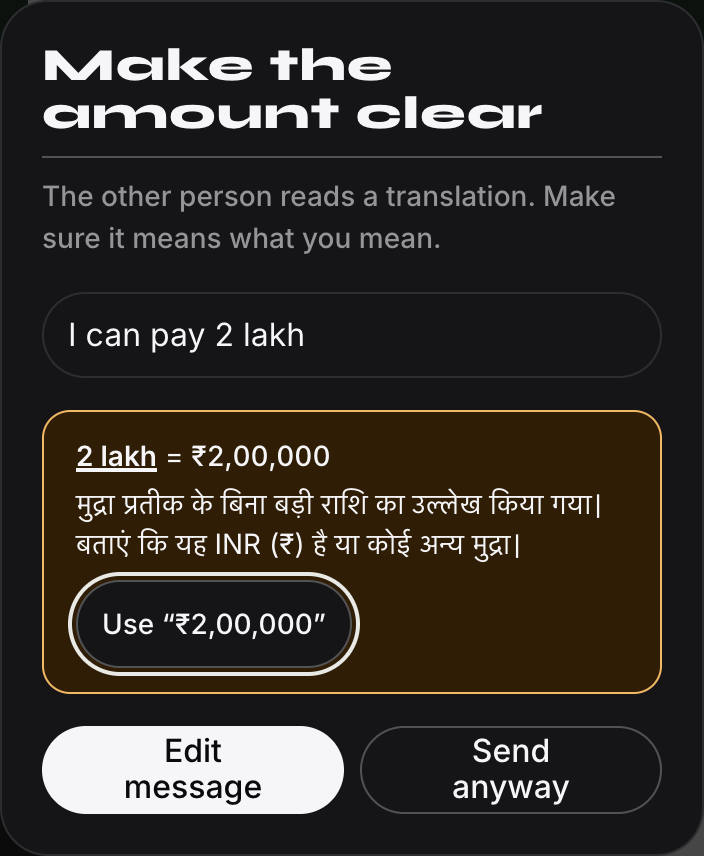
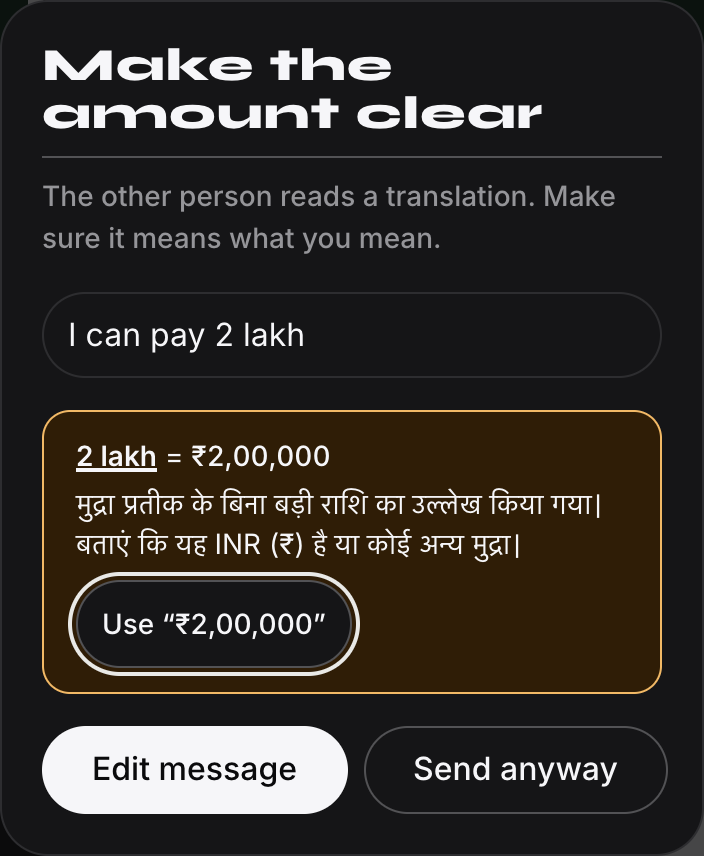
fix(DHRUMIL-T12): finish-review fixes on the landing and case page
Seal panel shows the sealed Deal Card with its QR; agent panel crops to the
transcript and summary (no nested header, no empty chat); hero headline
keeps 'languages.' together; hero screens full width on phones; guard
capture retaken with one-line buttons; closing panel centred; case toggle
fits at 390 and long summary facts wrap.

diff --git a/apps/web/src/app/page.tsx b/apps/web/src/app/page.tsx
@@ -38,8 +38,8 @@ export default function Home() {
 
         <div className="grid flex-1 grid-cols-[minmax(0,1fr)] items-center gap-10 px-5 pb-8 sm:px-8 lg:grid-cols-[minmax(0,1.1fr)_minmax(0,1fr)] lg:gap-12 lg:px-14">
           <div className="flex flex-col gap-6">
-            <h1 className="max-w-none font-display text-[clamp(1.75rem,3.7vw,3.25rem)] uppercase leading-[1.05] tracking-[0.02em]">
-              Same deal, in both languages.
+            <h1 className="max-w-none font-display text-[clamp(1.5rem,3.7vw,3.25rem)] uppercase leading-[1.05] tracking-[0.02em]">
+              Same deal, in both <span className="whitespace-nowrap">languages.</span>
             </h1>
             <p className="max-w-[40ch] text-lg text-ink-2">Marketplace chat that translates every message and spells out every amount.</p>
             <div className="flex flex-wrap items-center gap-3">
@@ -52,11 +52,11 @@ export default function Home() {
 
           {/* Signature: the same exchange on two screens */}
           <div className="flex flex-col gap-4">
-            <figure className="flex w-[88%] flex-col gap-2">
+            <figure className="flex w-full flex-col gap-2 sm:w-[88%]">
               <Shot src="/screens/chat-buyer.png" alt="Priya's screen: her message and Kenji's reply, both in Hindi" w={780} h={382} hero />
               <figcaption className="text-sm text-muted">Priya reads Hindi</figcaption>
             </figure>
-            <figure className="flex w-[88%] flex-col gap-2 self-end">
+            <figure className="flex w-full flex-col gap-2 self-end sm:w-[88%]">
               <Shot src="/screens/chat-seller.png" alt="Kenji's screen: the same two messages, both in Japanese" w={780} h={476} hero />
               <figcaption className="text-sm text-muted">Kenji reads Japanese</figcaption>
             </figure>
@@ -83,12 +83,12 @@ export default function Home() {
             Type &ldquo;2 lakh&rdquo; and Handshake asks first: it shows ₹2,00,000, so the buyer in Tokyo reads the same number you meant.
           </p>
         </div>
-        <Shot src="/screens/guard.png" alt="Meaning Guard: '2 lakh' becomes ₹2,00,000 before the message is sent" w={780} h={900} className="mx-auto max-w-sm" />
+        <Shot src="/screens/guard.png" alt="Meaning Guard: '2 lakh' becomes ₹2,00,000 before the message is sent" w={704} h={856} className="mx-auto max-w-sm" />
       </section>
 
       {/* Deal Card and Seal */}
       <section className={`${panel} grid items-center gap-8 px-5 py-12 sm:px-8 grid-cols-[minmax(0,1fr)] md:grid-cols-[minmax(0,1fr)_minmax(0,1fr)] lg:px-14 lg:py-20`}>
-        <Shot src="/screens/seal.png" alt="A Handshake Seal: the agreed terms, both names and a QR code anyone can check" w={780} h={1688} className="mx-auto max-w-xs md:order-first" />
+        <Shot src="/screens/seal.png" alt="A sealed Deal Card: the agreed terms, both agree times and the Seal's QR code" w={716} h={1160} className="mx-auto max-w-sm md:order-first" />
         <div className="flex flex-col gap-4">
           <h2 className="max-w-[18ch] font-display text-[clamp(1.75rem,3vw,2.75rem)] uppercase leading-[1.05]">Agree once. Prove it at pickup.</h2>
           <p className="max-w-[44ch] text-ink-2">
@@ -105,13 +105,13 @@ export default function Home() {
             Tap Get help and an agent joins the chat. They see what each side wrote, what each side read, and the deal you both agreed to.
           </p>
         </div>
-        <Shot src="/screens/agent.png" alt="The agent console: the conversation in both languages, a case summary and the frozen deal" w={2560} h={1600} />
+        <Shot src="/screens/agent.png" alt="The agent console: the conversation in the original and in the agent's language, beside the case summary" w={2512} h={816} />
       </section>
 
       {/* Close */}
-      <section className={`${panel} flex flex-col items-start gap-6 px-5 py-12 sm:px-8 lg:px-14 lg:py-20`}>
-        <h2 className="max-w-[20ch] font-display text-[clamp(1.75rem,3vw,2.75rem)] uppercase leading-[1.05]">Try both sides of a real chat.</h2>
-        <div className="flex flex-wrap gap-3">
+      <section className={`${panel} flex flex-col items-center gap-6 px-5 py-12 text-center sm:px-8 lg:px-14 lg:py-20`}>
+        <h2 className="max-w-[20ch] text-balance font-display text-[clamp(1.75rem,3vw,2.75rem)] uppercase leading-[1.05]">Try both sides of a real chat.</h2>
+        <div className="flex flex-wrap justify-center gap-3">
           <Link href="/try" className="btn btn-primary">
             Try the demo
           </Link>

diff --git a/apps/web/src/app/agent/cases/[id]/agent-case.tsx b/apps/web/src/app/agent/cases/[id]/agent-case.tsx
@@ -64,7 +64,7 @@ function Transcript({ detail, lang }: { detail: CaseDetailResponse; lang: LangCo
     <section className="flex flex-col gap-3">
       <div className="flex flex-wrap items-end justify-between gap-2">
         <h2 className="section-title">Conversation before the case</h2>
-        <div role="group" aria-label="Transcript view" className="flex gap-1 rounded-full border border-border bg-surface p-1">
+        <div role="group" aria-label="Transcript view" className="grid w-full grid-cols-2 gap-1 rounded-full border border-border bg-surface p-1 sm:inline-grid sm:w-auto">
           {(
             [
               ["mine", "In my language"],
@@ -250,7 +250,7 @@ export function AgentCase() {
               <>
                 <p lang={summary.lang}>{summary.text}</p>
                 {summary.keyFacts.length > 0 && (
-                  <ul className="list-disc pl-5 text-sm">
+                  <ul className="list-disc pl-5 text-sm [overflow-wrap:anywhere]">
                     {summary.keyFacts.map((f) => (
                       <li key={f}>{f}</li>
                     ))}
